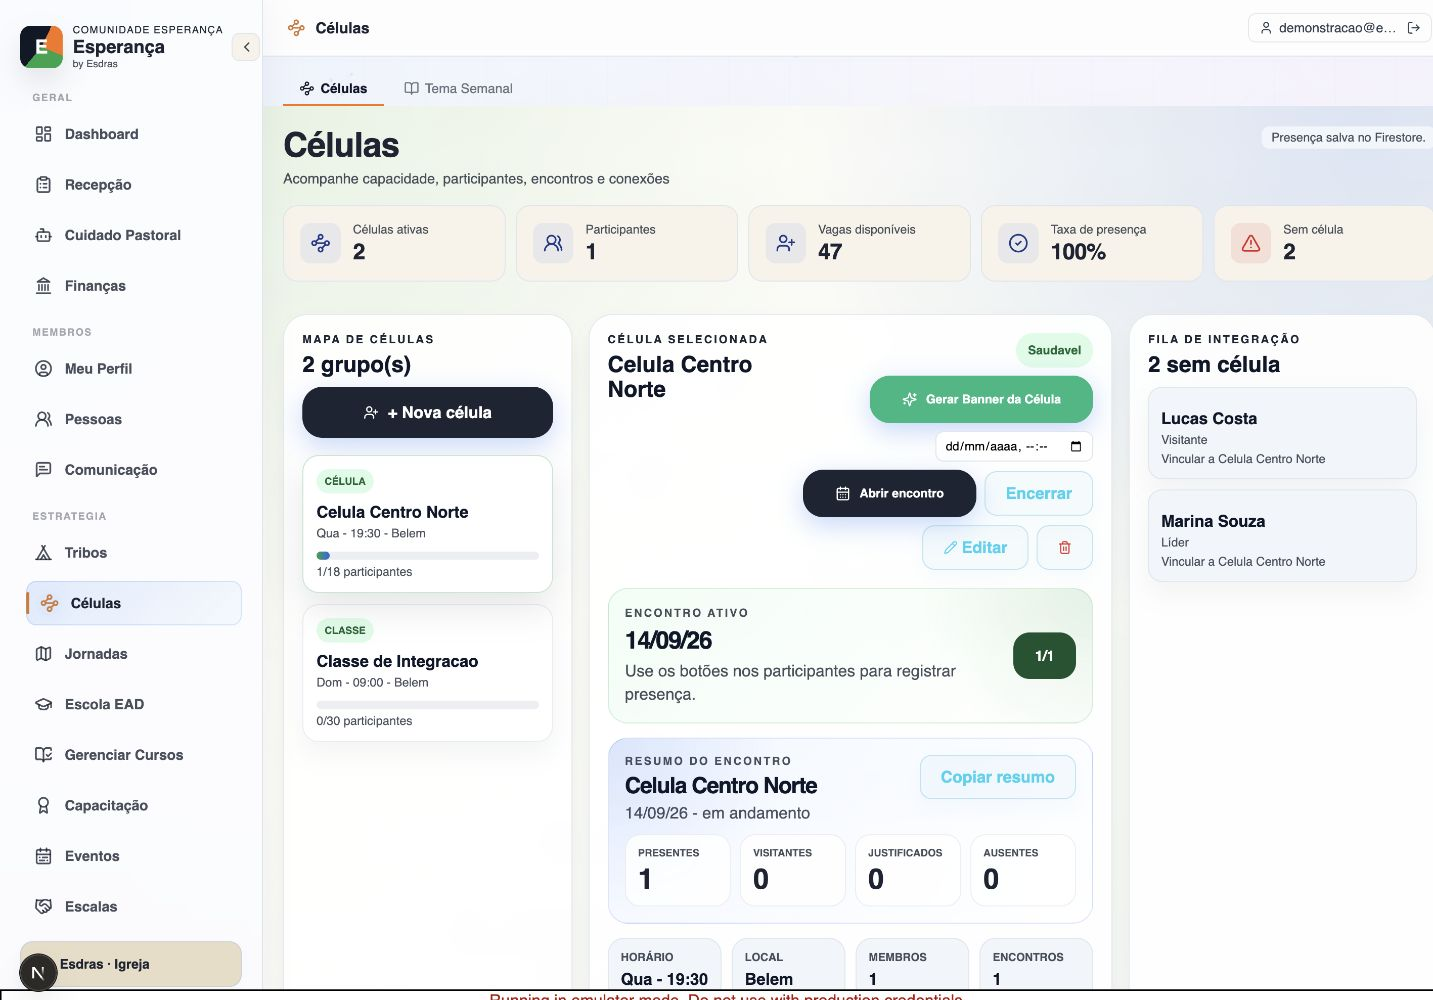
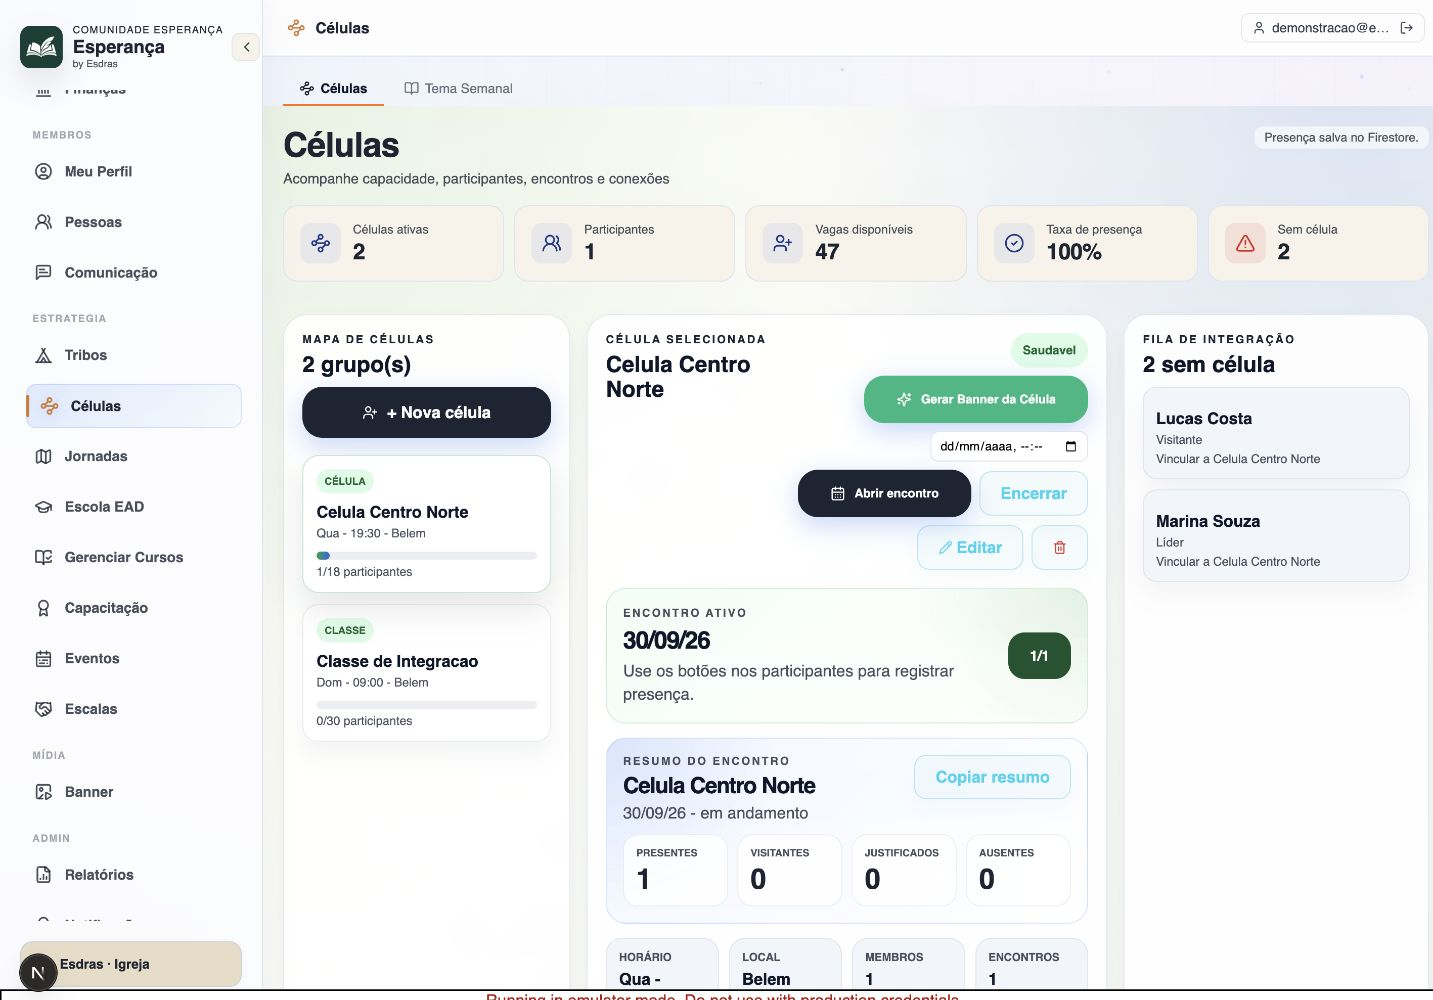
fix: atualizar marca do painel e capturas da LP

diff --git a/apps/web/app/brand-logo.tsx b/apps/web/app/brand-logo.tsx
@@ -14,7 +14,7 @@ export function BrandLogo({
 }) {
   const { tenantRuntime } = useAppAuth();
   const brandTheme = createBrandTheme(tenantRuntime?.settings?.branding);
-  const markUrl = brandTheme.brand.logoUrl ?? brandTheme.brand.markUrl;
+  const markUrl = brandTheme.brand.logoUrl ?? brandTheme.brand.markUrl ?? "/brand/esdras-icon.png";
 
   return (
     <div
@@ -24,40 +24,18 @@ export function BrandLogo({
         gap: compact ? 10 : 14
       }}
     >
-      {markUrl ? (
-        <img
-          src={markUrl}
-          alt={brandTheme.brand.appName}
-          width={size}
-          height={size}
-          style={{
-            width: size,
-            height: size,
-            borderRadius: Math.round(size * 0.24),
-            boxShadow: "0 14px 30px rgba(29, 41, 64, 0.12)"
-          }}
-        />
-      ) : (
-        <div
-          aria-hidden="true"
-          style={{
-            width: size,
-            height: size,
-            display: "grid",
-            placeItems: "center",
-            borderRadius: Math.round(size * 0.24),
-            background:
-              "conic-gradient(from 220deg, #111827 0 46%, #f97316 46% 70%, #16a34a 70% 100%)",
-            boxShadow: "0 14px 30px rgba(29, 41, 64, 0.12)",
-            color: "#fff",
-            fontSize: Math.round(size * 0.46),
-            fontWeight: 950,
-            lineHeight: 1
-          }}
-        >
-          E
-        </div>
-      )}
+      <img
+        src={markUrl}
+        alt={brandTheme.brand.appName}
+        width={size}
+        height={size}
+        style={{
+          width: size,
+          height: size,
+          borderRadius: Math.round(size * 0.24),
+          boxShadow: "0 14px 30px rgba(29, 41, 64, 0.12)"
+        }}
+      />
       {!iconOnly && <div style={{ display: "grid", gap: 2 }}>
         <span
           style={{

diff --git a/apps/web/app/globals.css b/apps/web/app/globals.css
@@ -9913,13 +9913,8 @@ h1.page-title,
   width: 32px;
   height: 32px;
   border-radius: 9px;
-  background: conic-gradient(from 220deg, #111827 0 46%, #f97316 46% 70%, #16a34a 70% 100%);
-  display: flex;
-  align-items: center;
-  justify-content: center;
-  color: #fff;
-  font-size: 16px;
-  font-weight: 900;
+  display: block;
+  object-fit: cover;
 }
 .lp-logo-name {
   font-size: 15px;
@@ -11146,7 +11141,7 @@ h1.page-title,
 .legal-page { min-height: 100vh; padding: 48px 20px 72px; background: #f6f8fc; color: #172033; }
 .legal-shell { width: min(820px, 100%); margin: 0 auto; }
 .legal-brand { display: inline-flex; align-items: center; gap: 10px; margin: 0 0 28px; color: #172033; font-size: 18px; font-weight: 800; text-decoration: none; }
-.legal-brand-mark { display: grid; width: 34px; height: 34px; place-items: center; border-radius: 10px; background: conic-gradient(from 220deg, #111827 0 46%, #f97316 46% 70%, #16a34a 70% 100%); color: #fff; font-weight: 900; }
+.legal-brand-mark { display: block; width: 34px; height: 34px; border-radius: 10px; object-fit: cover; }
 .legal-card { padding: clamp(28px, 6vw, 56px); border: 1px solid #e2e8f0; border-radius: 22px; background: #fff; box-shadow: 0 16px 50px rgba(15, 23, 42, .08); }
 .legal-eyebrow { margin: 0 0 8px; color: #ea580c; font-size: 12px; font-weight: 800; letter-spacing: .1em; }
 .legal-card h1 { margin: 0; color: #0f172a; font-size: clamp(32px, 6vw, 46px); letter-spacing: -.04em; }

diff --git a/scripts/seed-lp-captures.ts b/scripts/seed-lp-captures.ts
@@ -44,7 +44,8 @@ async function run() {
   batch.set(org.collection("serviceTeams").doc("team_reception"), { id: "team_reception", organizationId, code: "reception", name: "Recepção e acolhimento", summary: "Receber pessoas e orientar visitantes.", targetVolunteers: 3, status: "active" });
   for (const [i, person] of seedPeople.entries()) {
     const id = `assignment_demo_${i}`;
-    batch.set(org.collection("serviceAssignments").doc(id), { id, organizationId, serviceTeamId: "team_reception", ministryCode: "reception", personId: person.id, role: "Acolhimento", serviceDate, status: i === 0 ? "confirmed" : "pending", createdAt: date, updatedAt: date });
+    const assignmentDate = i === 0 ? serviceDate : new Date(new Date(`${serviceDate}T12:00:00Z`).getTime() + i * 7 * 86400000).toISOString().slice(0, 10);
+    batch.set(org.collection("serviceAssignments").doc(id), { id, organizationId, serviceTeamId: "team_reception", ministryCode: "reception", personId: person.id, role: "Acolhimento", serviceDate: assignmentDate, status: i === 0 ? "confirmed" : "pending", createdAt: date, updatedAt: date });
   }
   for (const [i, [label, kind, amount]] of [["Contribuições — demonstração", "income", 1200], ["Manutenção — demonstração", "expense", 350], ["Apoio a missões — demonstração", "missions", 200]].entries()) {
     const id = `finance_demo_${i}`;

diff --git a/apps/web/app/landing/page.tsx b/apps/web/app/landing/page.tsx
@@ -52,7 +52,7 @@ function LPNav() {
     <header className="lp-nav">
       <div className="lp-container lp-nav-inner">
         <div className="lp-logo">
-          <div className="lp-logo-mark">E</div>
+          <img className="lp-logo-mark" src="/brand/esdras-icon.png" width="32" height="32" alt="" />
           <span className="lp-logo-name">Plataforma Esdras</span>
         </div>
         <nav className="lp-nav-links" aria-label="Navegação principal">
@@ -365,7 +365,7 @@ function LPFooter() {
     <footer className="lp-footer">
       <div className="lp-container lp-footer-inner">
         <div className="lp-logo">
-          <div className="lp-logo-mark">E</div>
+          <img className="lp-logo-mark" src="/brand/esdras-icon.png" width="32" height="32" alt="" />
           <span className="lp-logo-name">Plataforma Esdras</span>
         </div>
         <div className="lp-footer-links">

diff --git a/apps/lp/app/components/ModuleShowcaseClient.tsx b/apps/lp/app/components/ModuleShowcaseClient.tsx
@@ -33,7 +33,7 @@ const MODULES = [
     description:
       "Organize solicitações e responsáveis pelo acompanhamento. Os rascunhos da Sabedoria Pastoral dependem da configuração e da cota do plano e passam por revisão da liderança. A captura mostra a fila antes do primeiro pedido.",
     visual: "ai",
-    image: "/product/sabedoria-pastoral-capture.png",
+    image: "/product/sabedoria-pastoral-capture.webp",
     imageAlt:
       "Captura real do ambiente demonstrativo Esdras: cuidado pastoral supervisionado com Sabedoria Pastoral",
   },

diff --git a/apps/web/app/landing/components/ModuleShowcaseClient.tsx b/apps/web/app/landing/components/ModuleShowcaseClient.tsx
@@ -34,7 +34,7 @@ const MODULES = [
     description:
       "Organize solicitações e responsáveis pelo acompanhamento. Os rascunhos da Sabedoria Pastoral dependem da configuração e da cota do plano e passam por revisão da liderança. A captura mostra a fila antes do primeiro pedido.",
     visual: "ai",
-    image: "/product/sabedoria-pastoral-capture.png",
+    image: "/product/sabedoria-pastoral-capture.webp",
     imageAlt:
       "Captura real do ambiente demonstrativo Esdras: cuidado pastoral supervisionado com Sabedoria Pastoral",
   },

diff --git a/apps/web/app/account-deletion/page.tsx b/apps/web/app/account-deletion/page.tsx
@@ -13,7 +13,7 @@ export default function AccountDeletionPage() {
     <main className="legal-page">
       <div className="legal-shell">
         <Link className="legal-brand" href="/landing" aria-label="Voltar para a Plataforma Esdras">
-          <span className="legal-brand-mark">E</span>
+          <img className="legal-brand-mark" src="/brand/esdras-icon.png" width="34" height="34" alt="" />
           <span>Plataforma Esdras</span>
         </Link>
 

diff --git a/apps/web/app/privacy/page.tsx b/apps/web/app/privacy/page.tsx
@@ -13,7 +13,7 @@ export default function PrivacyPage() {
     <main className="legal-page">
       <div className="legal-shell">
         <Link className="legal-brand" href="/landing" aria-label="Voltar para a Plataforma Esdras">
-          <span className="legal-brand-mark">E</span>
+          <img className="legal-brand-mark" src="/brand/esdras-icon.png" width="34" height="34" alt="" />
           <span>Plataforma Esdras</span>
         </Link>
 

diff --git a/docs/entrega-marca-painel-capturas-lp-2026-09-30.md b/docs/entrega-marca-painel-capturas-lp-2026-09-30.md
@@ -1,0 +1,47 @@
+# Marca no painel e nas capturas da LP — 30/09/2026
+
+## Resultado
+
+O painel ainda desenhava um quadrado colorido com a letra **E** quando a
+instituição não tinha marca própria. O padrão agora usa o livro com pena já
+aprovado; `logoLightUrl` e `iconUrl` específicos de uma instituição continuam
+com prioridade. A landing interna e as páginas públicas de privacidade e
+exclusão de conta também deixaram de usar o **E** antigo.
+
+As cinco imagens de demonstração foram recapturadas no navegador a partir da
+instituição fictícia `org_lp_capturas`, no emulador local `demo-alvo-qa`:
+Pessoas, Células, Sabedoria Pastoral, Escalas e Finanças. As mesmas imagens
+estão nas duas LPs. O aviso de emulador continua visível; nenhuma captura
+recebeu composição, retoque de pixels ou dados de uma igreja real. A imagem de
+Sabedoria Pastoral, antes JPEG com extensão `.png`, passou a WebP real.
+
+O [manifesto de integridade](evidencias-lp-2026-09-30/capturas.json) registra
+dimensões, hashes dos arquivos e hashes dos pixels. A conversão para WebP foi
+sem perdas e os pixels decodificados foram comparados às capturas do navegador.
+O `esdrasapp-icon.png` solto na pasta pública da LP, sem referências no código,
+foi removido para não manter uma cópia da identidade antiga.
+
+## Verificação
+
+- Painel local com a nova marca e preservação do nome da instituição fictícia.
+- LP desktop e celular 390 px verificadas no navegador; cinco imagens carregadas
+  com 1433 × 1000 px, sem rolagem horizontal da página no celular.
+- Build de produção da LP e build Cloudflare do painel aprovados nesta entrega.
+- As dez imagens remotas (cinco em cada aplicação) retornaram HTTP 200 e bytes
+  idênticos aos arquivos locais. A marca nova também foi conferida no login
+  publicado e na seção de demonstração do domínio oficial da LP.
+- Plano gratuito de **50 membros** preservado.
+
+## Publicação
+
+- LP: versão Cloudflare `a50298b9-bd4d-4254-9f03-20a713128010`, em
+  <https://plataformaesdras.com.br/#modulos>.
+- Painel: versão Cloudflare `d160fa66-cbc6-48af-97a3-0e6f341f7da3`, em
+  <https://alvo-church-web.alexandrecostagg.workers.dev/login>.
+
+## Progresso e limite
+
+Correção de identidade e atualização de prova visual, sem nova funcionalidade:
+sistema **96,40%**, mobile **97%** e LP **100% do escopo atual**. O ícone nativo,
+o splash e a ficha do Google Play continuam no plano do [próximo AAB](marca-proximo-aab-2026-09-28.md),
+conforme a decisão anterior do usuário.

diff --git a/docs/entregas-2026-09-05.md b/docs/entregas-2026-09-05.md
@@ -40,6 +40,7 @@ Os pesos permanecem iguais; estimativas não medem prontidão de produção.
 | 25 — Aquisição mensurável e diagnóstico Asaas | LP 94→99 | 96,10 + (5×5)/100 | **96,35%** |
 | 28 — Capturas reais e leitura das demonstrações | LP 99→100 | 96,35 + (5×1)/100 | **96,40%** |
 | 29 — Sessão mobile e retomada | Mobile 97 mantido | Sem crédito adicional antes de QA físico | **96,40%** |
+| 30/09 — Marca no painel e capturas da LP | LP 100 e mobile 97 mantidos | Correção visual sem nova funcionalidade | **96,40%** |
 
 Os decimais permitem acompanhar a fórmula; não representam precisão estatística.
 A margem de julgamento continua em aproximadamente 10 pontos percentuais.

diff --git a/docs/status-implementacao-2026-09-05.md b/docs/status-implementacao-2026-09-05.md
@@ -1,5 +1,9 @@
 # Estado da implementação — 05/09/2026
 
+> 30/09: [marca aprovada aplicada ao painel web e às cinco capturas reais da LP](entrega-marca-painel-capturas-lp-2026-09-30.md).
+> Marcas próprias das instituições preservadas. App nativo e Google Play seguem
+> reservados ao próximo AAB. Sistema **96,40%**, mobile **97%**, LP **100%**.
+
 > 28/09: avatar da [nova marca para Instagram](marca-proximo-aab-2026-09-28.md)
 > preparado. Troca de foto pendente de identificar/acessar o perfil Esdras;
 > percentuais mantidos.
